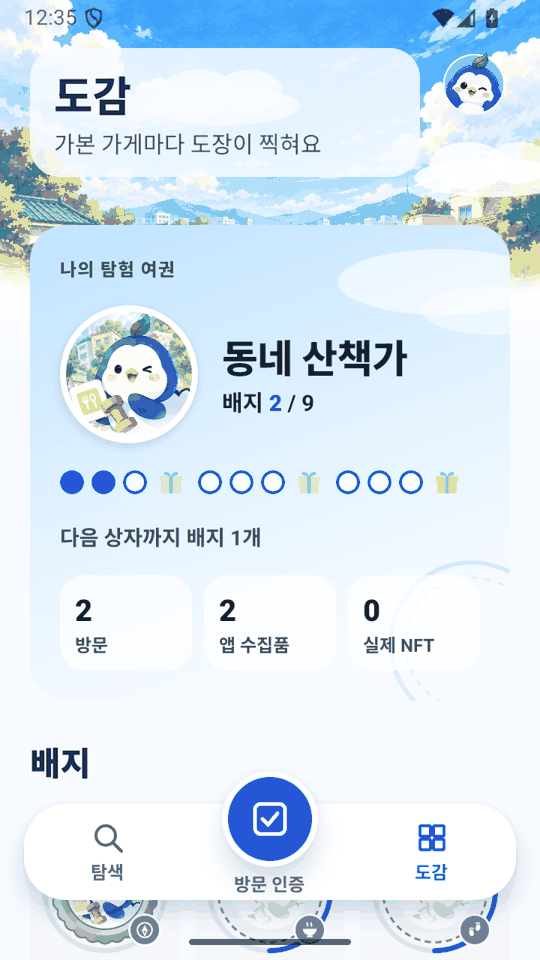
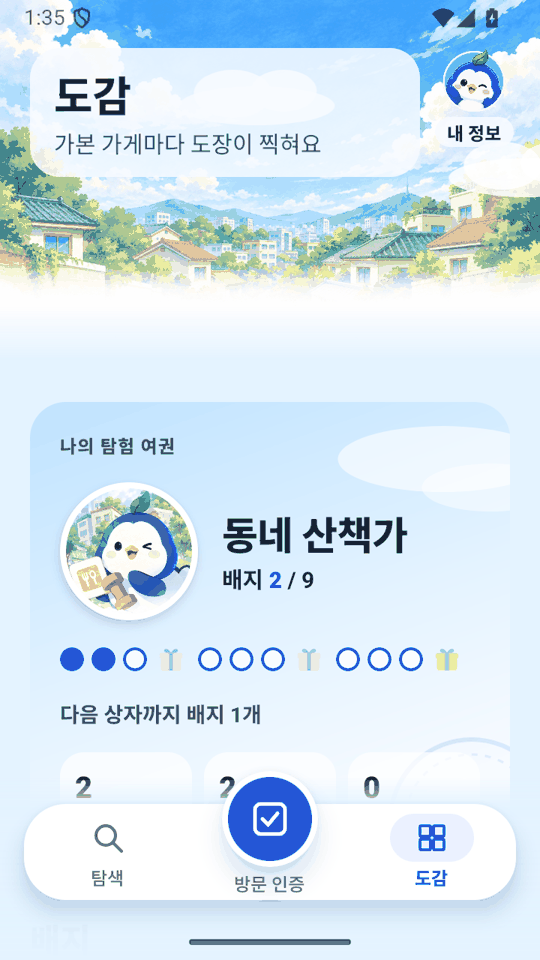
증거 화면을 세 번째 수정 뒤 최종 캡처로 바꾸고 표를 맞춘다
Refs #224

Tested: 이미지 11장 육안 확인

diff --git a/docs/evidence/sky-town-redesign-2026-09-29/README.md b/docs/evidence/sky-town-redesign-2026-09-29/README.md
@@ -16,15 +16,17 @@
 
 | 파일 | 내용 |
 | --- | --- |
-| [01-before-after.png](01-before-after.png) | 전후 비교. 위 "전"은 Preview 7 시점의 역할 선택("누구세요?", 파란 네모 masscom 표식, 실기기 상태 표시줄은 잘라냄)과 도감(흰 바탕·새내기 탐험가 0/9·탐색/방문 인증/도감/내 정보 네 칸 하단 탭). 아래 "후"는 하늘 동네 개편의 역할 선택 시안·탐색(스크롤 수정 뒤)·라이트 도감 맨 위·다크 방문 인증 네 화면이다 |
-| [02-explore-light.png](02-explore-light.png) | 라이트 탐색 맨 위(스크롤 수정 뒤). 하늘·동네 그림 위 반투명 패널 머리글("어디로 탐험할까요? / 안 가본 가게에 도장을 찍어요")과 마스코트 아바타, "내 탐험 여권 보기" 칩, 지도를 든 마스코트, 검색창, "전체/참여 가능" 필터, "동네 음식점 3곳"과 "추천 보기", 개발·검증용 데이터 안내, 떠 있는 탭 바 |
-| [03-collection-stamps-light.png](03-collection-stamps-light.png) | 라이트 도감을 스탬프판까지 내린 화면(스크롤 수정 뒤: 그림·머리글은 함께 올라가 보이지 않음). 크림 종이 점선 카드에 방문한 가상 점포 A·B의 이중 테두리 원형 도장(안에 이름 앞 두 글자 "가상"), 아직 안 간 C 칸은 점선 원의 "?"·"아직 안 가봤어요", 아래 "앱에서 받은 수집품" 카드와 떠 있는 탭 바 |
-| [04-collection-top-light.png](04-collection-top-light.png) | 라이트 도감 맨 위. 하늘·동네 그림, 패널 머리글, "나의 탐험 여권" 표지(동네 산책가·배지 2/9·진행 점·방문 2·앱 수집품 2·실제 NFT 0), "배지" 구역의 시작과 떠 있는 탭 바 |
-| [05-claim-dark.png](05-claim-dark.png) | 다크 방문 인증. 밤하늘 그림과 어두운 패널 머리글, 도장을 든 마스코트와 안내 말풍선, 점선 테두리 도장 카드("내 2분 식별 QR"·"식별 QR 발급" 버튼, "1 · 코드 확인"), 다크 탭 바. QR 토큰이 담긴 화면은 아니다 |
-| [06-settings-light.png](06-settings-light.png) | 라이트 내 정보. 낮은 하늘 배너 위 둥근 뒤로 버튼과 "내 정보" 패널 제목, 마스코트 아바타 프로필 카드("내 계정과 방문 기록"), 점주·직원 도구 카드, 개발용 UI 시안 카드. 탭 바는 물러나 있다. 프로필 카드의 계정 표시는 로컬 개발 DEMO 계정의 가운데를 줄인 이름이다 |
-| [07-role-preview-light.png](07-role-preview-light.png) | 라이트 역할 선택 시안(개발 빌드 전용). 기본 스택 머리글(뒤로 화살표·"UI 시안 미리보기") 아래에 하늘 그림, "개발용 화면 시안 · 실제 음식점·방문·혜택이 아닙니다." 안내, `logo-badge`와 "월계 마스코트", 손을 흔드는 마스코트, "반가워요! 동네 탐험을 시작해요", 마스코트 표식이 붙은 사용자 카드 |
-| [08-explore-font200.png](08-explore-font200.png) | 글자 200%·라이트 탐색. "어디로 탐험할까요?" 제목과 부제가 패널 안에서 줄바꿈하고 잘리지 않으며, "내 탐험 여권 보기" 칩이 두 줄로 쌓이고 지도를 든 마스코트, 검색창, "전체/참여 가능" 필터, 높아진 떠 있는 탭 바가 보인다. 검색창 안내 문구는 한 줄이라 끝이 잘려 보인다(입력 동작은 이 캡처로 확인하지 않음) |
-| [09-collection-dark.png](09-collection-dark.png) | 다크 도감을 맨 아래까지 내린 화면. 수집품 카드의 "실제 NFT 발행하지 않음"·"외부 지갑 주소 확인" 버튼, 방문 기록 카드(가상 점포 B·A, 2026-09-29, 진행 반영)와 안내 "방문한 날짜(한국 기준)만 기록하고, 식사 시각은 남기지 않아요.", "다음 음식점 추천 보기" 버튼, 다크 탭 바 |
+| [01-before-after.png](01-before-after.png) | 전후 비교. 위 "전"은 Preview 7의 시연 앱 역할 선택("누구세요?", 파란 네모 masscom 표식, 실기기 상태 표시줄은 잘라냄)과 도감(흰 바탕·네 칸 하단 탭). 아래 "후"는 최종 역할 선택 시안(개발 빌드 전용 화면이라 "전"과 완전히 같은 화면은 아님)·탐색·도감 맨 위·다크 방문 인증 |
+| [02-explore-light.png](02-explore-light.png) | 라이트 탐색 맨 위. 반투명 패널 머리글("어디로 탐험할까요? / 안 가본 가게에 도장을 찍어요"), 마스코트 아바타와 "내 정보" 표식, "배지 2/9" 칩, 지도를 든 마스코트, 테두리가 보이는 검색창, 필터, 하늘색 페이지와 떠 있는 탭 바(선택된 탐색에 알약 표시) |
+| [03-collection-stamps-light.png](03-collection-stamps-light.png) | 라이트 도감의 도장판. 크림 종이 점선 카드에 가상 점포 A·B의 이중 테두리 도장("A", "B"), 안 간 C는 점선 "?"·"아직 안 가봤어요". 위쪽은 스크롤 시 상태 표시줄 가림막 |
+| [04-collection-top-light.png](04-collection-top-light.png) | 라이트 도감 맨 위. 하늘 그림, 패널 머리글 "도감 / 가본 가게마다 도장이 찍혀요", 여권 표지(동네 산책가·배지 2/9·진행 점) |
+| [05-claim-dark.png](05-claim-dark.png) | 다크 방문 인증. 밤하늘 그림, 패널 머리글, 도장을 든 마스코트와 "직원에게 내 QR을 보여주거나, 점주 코드를 입력해요" 말풍선, 점선 도장 카드, 선택된 가운데 도장 버튼의 흰 고리. QR 토큰이 담긴 화면은 아님 |
+| [06-settings-light.png](06-settings-light.png) | 라이트 내 정보. 둥근 뒤로 버튼과 패널 제목, 마스코트 프로필 카드, 점주·직원 도구, 개발용 UI 시안 카드. 탭 바는 물러남 |
+| [07-role-preview-light.png](07-role-preview-light.png) | 라이트 역할 선택 시안(개발 빌드 전용). 개발용 안내 알약, `logo-badge`와 "월계 마스코트", 손을 흔드는 마스코트, "반가워요! 동네 탐험을 시작해요", 마스코트 표식 사용자 카드 |
+| [08-explore-font200.png](08-explore-font200.png) | 글자 200% 라이트 탐색. 부제는 숨고 마스코트가 작아져 검색창·필터·"동네 음식점"까지 첫 화면에 보임. 탭 바가 높아짐. 검색 안내 문구 끝은 잘려 보임 |
+| [09-collection-dark.png](09-collection-dark.png) | 다크 도감 아래쪽. 보상 상자 행·내 쿠폰·도장판 제목, 어두운 카드 위쪽 옅은 테두리, 상태 표시줄 가림막 |
+| [10-merchant-detail-light.png](10-merchant-detail-light.png) | 라이트 음식점 상세. 하늘 머리글·둥근 뒤로 버튼·"음식점 상세" 패널, DEMO DATA 표식 카드, 주소·최소 이용·참여 상태 카드 |
+| [11-explore-list-dark.png](11-explore-list-dark.png) | 다크 탐색 목록(스크롤). 개발·검증용 데이터 안내, 가상 점포 A·B 카드(DEMO 표식), 상태 표시줄 가림막, 다크 탭 바 |
 
 ## PASS
 
@@ -32,15 +34,17 @@
 
 | 항목 | 상태 | 확인 내용 | 폴더 안 화면 |
 | --- | --- | --- | --- |
-| 탐색: 라이트·다크·글자 200% 렌더 | PASS | 하늘 머리글·반투명 패널·떠 있는 점포 카드·탭 바가 겹치거나 잘리지 않음. 글자 200%에서 줄바꿈 | 라이트 [02](02-explore-light.png) · 200% [08](08-explore-font200.png). 다크 100%는 — |
-| 도감: 라이트·다크·글자 200% 렌더 | PASS | 여권 표지·메달·스탬프판, 점포마다 조금씩 기울어진 도장 렌더. 그림이 내용과 함께 스크롤되어 아래로 내리면 머리글이 화면 밖으로 올라감 | [03](03-collection-stamps-light.png) · [04](04-collection-top-light.png)(맨 위는 수정 전후 모습이 같음) · [09](09-collection-dark.png). 200%는 — |
-| 방문 인증: 라이트·다크 렌더 | PASS | 도장 카드·마스코트·2분 QR·확인 코드 카드, 탭 바 | 다크 [05](05-claim-dark.png). 라이트는 — |
-| 내 정보 | PASS | 하늘 뒤로 가기 머리글, 프로필 카드, 묶음 설정 카드 | [06](06-settings-light.png) |
-| 역할 선택 시안(개발 빌드) | PASS | 하늘 그림·마스코트·카드 렌더. 파란 네모 표식이 사라짐 | [07](07-role-preview-light.png) |
-| 점포 상세 | PASS | 하늘 머리글·뒤로 버튼·떠 있는 카드 렌더 | — |
-| 다음 가게 추천 뒤로 가기 | PASS | 하늘 머리글의 둥근 뒤로 버튼으로 이전 화면에 복귀 | — |
+| 탐색: 라이트·다크·글자 200% 렌더 | PASS | 패널 머리글·배지 칩·떠 있는 카드·탭 바가 겹치거나 잘리지 않음. 200%에서 머리글이 줄어 목록이 보임 | [02](02-explore-light.png) · [08](08-explore-font200.png) · [11](11-explore-list-dark.png) |
+| 도감: 라이트·다크·글자 200% 렌더 | PASS | 여권 표지·메달·보상 상자·도장판(점포별 도장 글자), 그림이 내용과 함께 스크롤 | [03](03-collection-stamps-light.png) · [04](04-collection-top-light.png) · [09](09-collection-dark.png). 200%는 — |
+| 방문 인증: 라이트·다크 렌더 | PASS | 도장 카드·마스코트·말풍선·코드 입력칸 테두리, 선택된 가운데 버튼 고리 | [05](05-claim-dark.png). 라이트는 — |
+| 내 정보 | PASS | 뒤로 가기 머리글, 프로필 카드, 묶음 설정 카드 | [06](06-settings-light.png) |
+| 역할 선택 시안(개발 빌드) | PASS | 하늘 그림·마스코트·카드, 파란 네모 표식 제거 | [07](07-role-preview-light.png) |
+| 음식점 상세 | PASS | 하늘 머리글·뒤로 버튼·떠 있는 카드 | [10](10-merchant-detail-light.png) |
+| 다음 가게 추천 뒤로 가기 | PASS | 둥근 뒤로 버튼으로 이전 화면에 복귀 | — |
+| 선택된 탭의 색 외 표시 | PASS | 선택 탭 아이콘 뒤 알약·굵은 글자, 가운데 도장 버튼 흰 고리 | [02](02-explore-light.png) · [05](05-claim-dark.png) |
+| 스크롤 시 상태 표시줄 겹침 | PASS | 가림막이 스크롤 24dp 안에 나타나 시계·아이콘과 글자가 겹치지 않음 | [03](03-collection-stamps-light.png) · [09](09-collection-dark.png) · [11](11-explore-list-dark.png) |
 
-관찰(수정하지 않음): 시연 점포 이름이 모두 "가상 점포"로 시작해 도장 글자가 둘 다 "가상"으로 찍힌다. 실제 점포 이름에서는 앞 두 글자가 달라진다. 도장은 원형이라 점포별 기울기(−12~12도)가 글자 방향으로만 드러나며 03의 두 도장에서는 뚜렷하게 보이지 않는다. 기울기 계산의 결정성은 단위 시험(`timing.test.ts`)이 검사한다.
+관찰: 도장 글자는 점포 이름의 마지막 낱말(두 글자 이하) 또는 그 앞 두 글자라 시연 점포는 "A"·"B"로 찍힌다. 시연 빌드에서는 점포 그림 썸네일이 대신 들어간다. 원형 도장의 기울기(−12~12도)는 글자 방향으로만 드러나며 결정성은 `timing.test.ts`가 검사한다.
 
 ## 검수 중 찾아 같은 브랜치에서 고친 결함
 
@@ -51,13 +55,21 @@
 | 고정된 그림과 스크롤되는 화면의 불일치 | 화면마다 그림이 내용 위에 고정되거나 함께 올라가는 모습이 달랐다. 그림·구름을 스크롤 내용 맨 위 머리글 안으로 옮겨 모든 탭 화면이 함께 스크롤되게 함 | `4e16500` |
 | 방문 인증 탭이 한 번 빈 화면으로 보임 | 재현되지 않았고 원인은 확정하지 못했다. 진입 연출이 레이아웃 `entering` 애니메이션이라 화면이 투명하게 남을 수 있는 경로가 있어, 공유값 스프링과 1.2초 뒤 최종 상태 강제로 바꿔 그 경로를 없앴다 | `497e0f7` |
 | 음식점 상세·다음 가게 추천이 흰 기본 스택 머리글 | 하늘 머리글과 둥근 뒤로 버튼(`BackHeader`)으로 교체 | `a964766` |
+| 선택된 탭이 색으로만 구분(1.05:1) | 선택 탭 알약·굵은 글자·가운데 고리, 탭 줄 `tablist` | `58cb57e` |
+| 스크롤 시 내용이 상태 표시줄 밑으로 겹침 | 상태 표시줄 가림막과 RefreshControl 위치 보정 | `b6e686a` |
+| 스크롤하면 다시 흰 바탕처럼 보임 | 페이지를 하늘색(`world.page`)으로, 다크 카드 위쪽 옅은 테두리 | `43cdb33` |
+| 입력칸·검색칸 경계 대비 부족, 칩 누름 시 글자 대비 저하 | 1.5dp 테두리, 누름은 배경색 변화 | `de2c39f` |
+| 글자 200%에서 머리글이 첫 화면을 다 차지 | 부제 숨김·마스코트 축소·제목 배율 상한 | `2245589` |
+| 모든 시연 도장이 "가상", 카드 낭독에서 이유·진행 누락 | 도장 글자 규칙·그림 썸네일, 라벨·힌트 분리 | `ece1b8b` |
+| 로그아웃 상태 탭이 옛 흰 화면 | 하늘 페이지와 머리글 아래로 이동 | `c9cc5af` |
 
 ## NOT_RUN
 
 - **실제 휴대전화(Samsung SM-S928N)에서 이 브랜치 확인:** 확인 시점에 폰이 연결돼 있지 않았다. 개편 전 Preview 7 설치본은 있으나 이 코드의 설치·화면 확인은 하지 않았다. 계획의 실폰 전후 촬영은 미실행이다.
 - **TalkBack 낭독:** 도장 칸·탭 바·마스코트 라벨의 실제 낭독은 확인하지 않았다(접근성 속성은 자동 시험으로만 검사).
 - **동작 줄이기 스위치의 시각 확인:** 실행 중 OS 설정을 바꿨을 때 연출이 멈추는 모습은 화면으로 확인하지 않았다(분기와 구독은 단위 시험).
-- **시연 빌드의 점포 그림:** 시연 앱 variant 빌드의 점포 상세 화면에서 점포 그림이 놓인 모습은 확인하지 않았다.
+- **시연 빌드의 점포 그림:** 시연 앱 variant에서 점포 그림이 음식점 상세 머리글 배경과 도장 썸네일로 놓인 모습은 확인하지 않았다(시연 export·자산 경계 검사와 소스 시험만).
+- **글자 200% 도감·방문 인증 라이트 이미지:** 확인은 했으나 폴더에 넣지 않았다.
 - **소유자의 "꾸민 느낌" 판정:** 사용자 판정이 필요하다.
 - **공개 서버·릴리스:** 운영·시연 서버와 APK 반영은 이번 범위 밖이며 하지 않았다.
 
